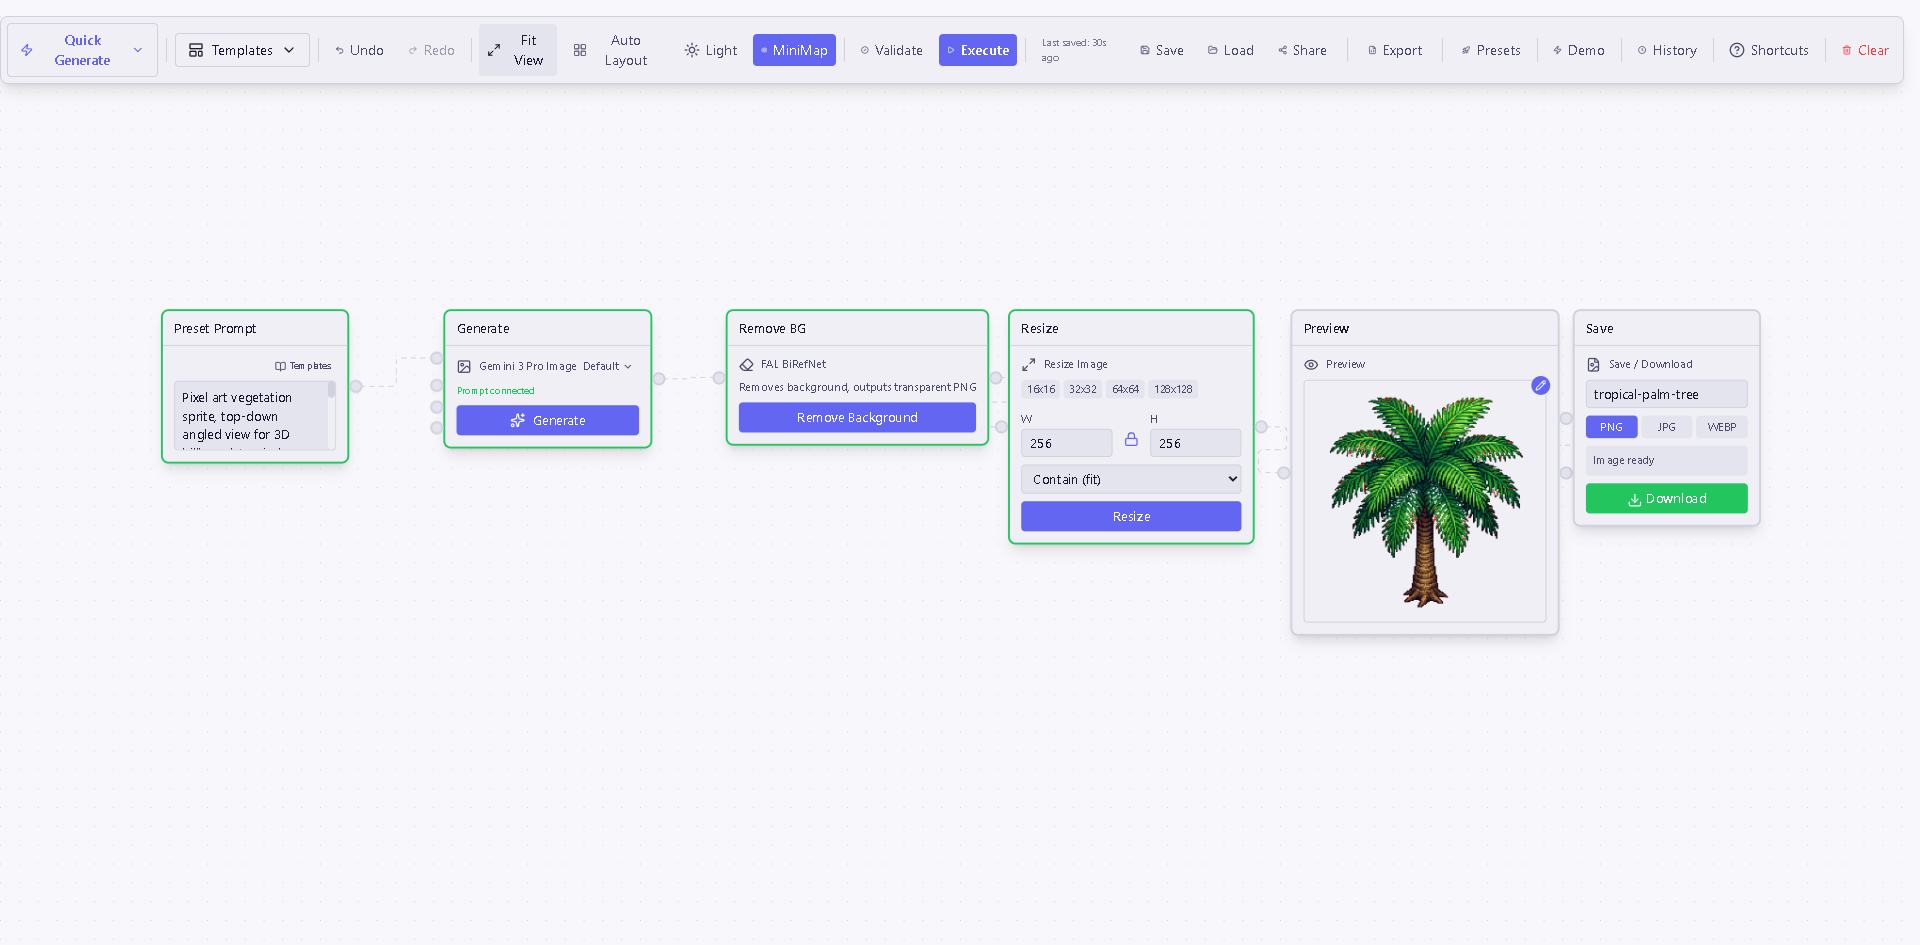
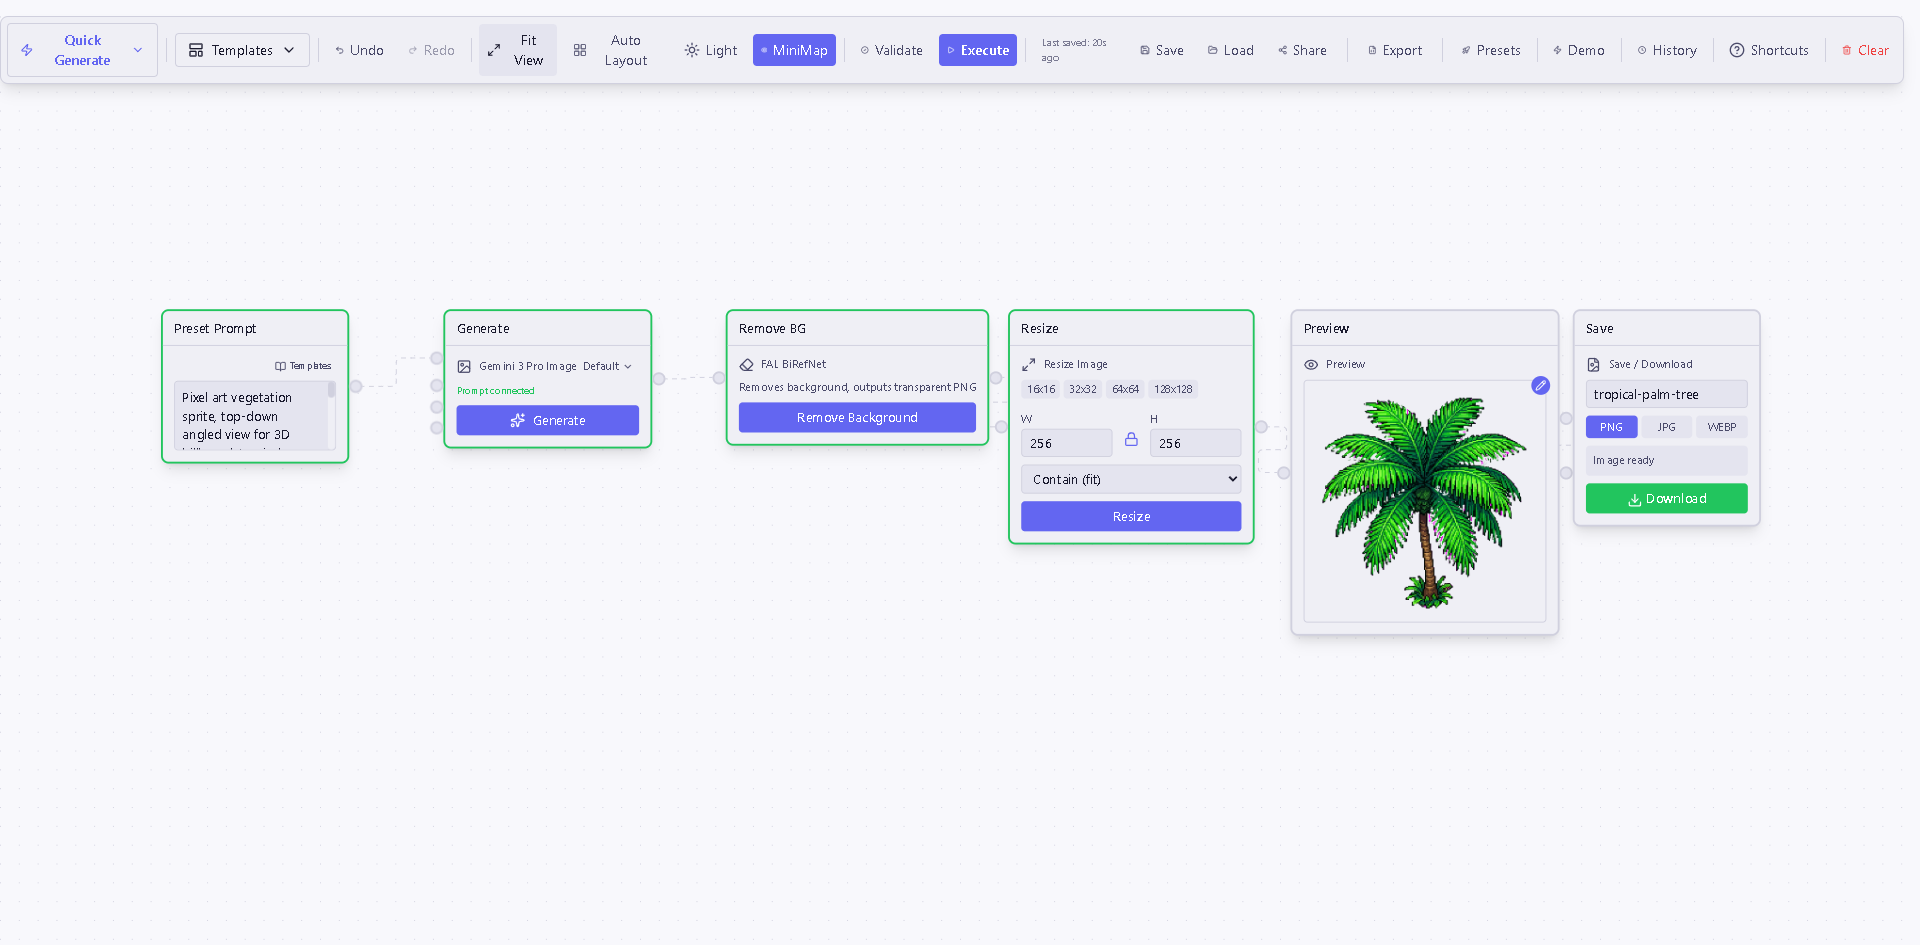
fix: switch sprite presets from red to magenta background for clean edges
- Add magenta and blue as PresetBackground options
- Switch all sprite/sheet presets from red (#FF0000) to magenta (#FF00FF)
- Switch icon preset to blue (#0000FF) for white subject separation
- Red backgrounds bleed into greens, browns, and skin tones after BiRefNet
- Add background color selection guide to README
- Regenerate pipeline screenshot with magenta-backed vegetation sprite

Changed region(s): [[0.6875, 0.3989, 0.8125, 0.6444]]

diff --git a/packages/shared/presets.ts b/packages/shared/presets.ts
@@ -1,5 +1,5 @@
 export type PresetCategory = 'sprite' | 'texture' | 'icon' | 'sheet';
-export type PresetBackground = 'red' | 'green' | 'black' | 'white';
+export type PresetBackground = 'red' | 'green' | 'blue' | 'magenta' | 'black' | 'white';
 export type PresetFormat = 'png' | 'jpeg' | 'webp';
 
 export interface Preset {
@@ -35,7 +35,7 @@ export const PRESETS: Preset[] = [
     category: 'sprite',
     promptPrefix: 'Sci-fi enemy spacecraft, top-down view, symmetrical design',
     promptSuffix: 'Game-ready asset, clean edges, centered, glowing energy core, metallic hull',
-    background: 'red',
+    background: 'magenta',
     outputSize: { width: 512, height: 512 },
     autoRemoveBg: true,
     format: 'png',
@@ -47,7 +47,7 @@ export const PRESETS: Preset[] = [
     category: 'icon',
     promptPrefix: 'Game UI icon, simple silhouette, high contrast, glowing edges',
     promptSuffix: 'Readable at small scale, centered in frame',
-    background: 'red',
+    background: 'blue',
     outputSize: { width: 64, height: 64 },
     autoRemoveBg: true,
     format: 'png',
@@ -59,7 +59,7 @@ export const PRESETS: Preset[] = [
     category: 'sheet',
     promptPrefix: 'Isometric asset sheet, 6 rows x 5 columns, each row one asset, first 4 isometric views, last special view',
     promptSuffix: 'Hyper-realistic style, no shadows, consistent lighting',
-    background: 'red',
+    background: 'magenta',
     outputSize: { width: 2048, height: 2048 },
     autoRemoveBg: true,
     format: 'png',
@@ -71,7 +71,7 @@ export const PRESETS: Preset[] = [
     category: 'sprite',
     promptPrefix: 'Pixel art vegetation sprite, top-down angled view for 3D billboard, tropical aesthetic, vibrant greens, clean edges',
     promptSuffix: 'Game-ready sprite, no ground shadow, centered, suitable for billboard rendering',
-    background: 'red',
+    background: 'magenta',
     outputSize: { width: 256, height: 256 },
     autoRemoveBg: true,
     format: 'png',
@@ -83,7 +83,7 @@ export const PRESETS: Preset[] = [
     category: 'sheet',
     promptPrefix: 'Pixel art animation strip, 8 frames in a horizontal row, each frame showing progressive animation stage',
     promptSuffix: 'Bright colors, high contrast, game-ready VFX, evenly spaced frames',
-    background: 'red',
+    background: 'magenta',
     outputSize: { width: 1024, height: 128 },
     autoRemoveBg: true,
     format: 'png',
@@ -95,7 +95,7 @@ export const PRESETS: Preset[] = [
     category: 'sprite',
     promptPrefix: 'Pixel art soldier character, military uniform, front-facing pose, clean pixel art style',
     promptSuffix: 'Game-ready sprite, centered, clean edges, suitable for billboard rendering in 3D scene',
-    background: 'red',
+    background: 'magenta',
     outputSize: { width: 64, height: 64 },
     autoRemoveBg: true,
     format: 'png',
@@ -130,6 +130,10 @@ export function backgroundToPrompt(background: PresetBackground): string {
       return 'Solid bright red (#FF0000) background, uniform red, no shadows on background';
     case 'green':
       return 'Solid bright green (#00FF00) background, uniform green, no shadows on background';
+    case 'blue':
+      return 'Solid bright blue (#0000FF) background, uniform blue, no shadows on background';
+    case 'magenta':
+      return 'Solid magenta (#FF00FF) background, entire background is flat solid magenta with no gradients, no shadows on background';
     case 'white':
       return 'Solid white (#FFFFFF) background';
     case 'black':

diff --git a/README.md b/README.md
@@ -87,6 +87,19 @@ All assets below were generated entirely by AI through Pixel Forge pipelines.
 | **3D Models** | Claude (Anthropic) | Object description | GLB models via Three.js primitives |
 | **Background Removal** | BiRefNet (FAL) | Any image | Clean transparency |
 
+### Background Color Selection
+
+Clean transparency requires choosing a background color that contrasts with the asset's dominant colors. This prevents color bleed at edges after BiRefNet removal.
+
+| Asset Type | Background | Why |
+|-----------|-----------|-----|
+| Vegetation, soldiers, terrain | Magenta `#FF00FF` | Maximum contrast with greens, browns, skin tones |
+| Icons, UI elements (white/grey) | Blue `#0000FF` | Better BiRefNet separation for light subjects |
+| Fire, explosions (red/orange) | Blue `#0000FF` | Avoids red channel bleed |
+| Colored emblems/insignia | Green `#00FF00` | Skip BiRefNet entirely, use green chroma key |
+
+All sprite presets use magenta by default. Never use red (`#FF0000`) for sprites - it bleeds into greens, browns, and skin tones.
+
 ### Key Features
 
 - **30 node types** - image gen, bg removal, 3D gen, canvas ops, batch processing, analysis, export
